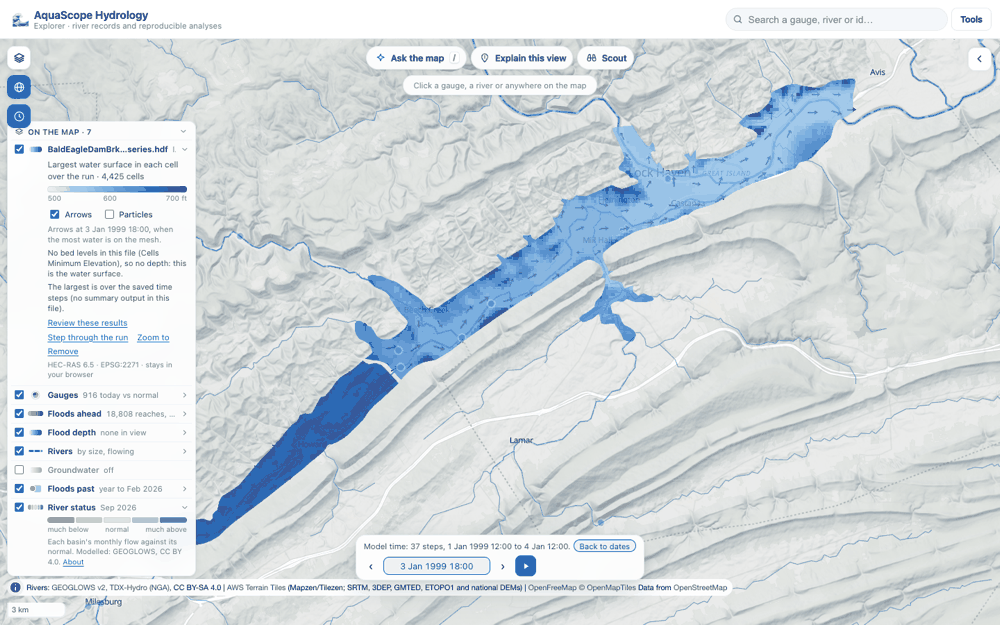
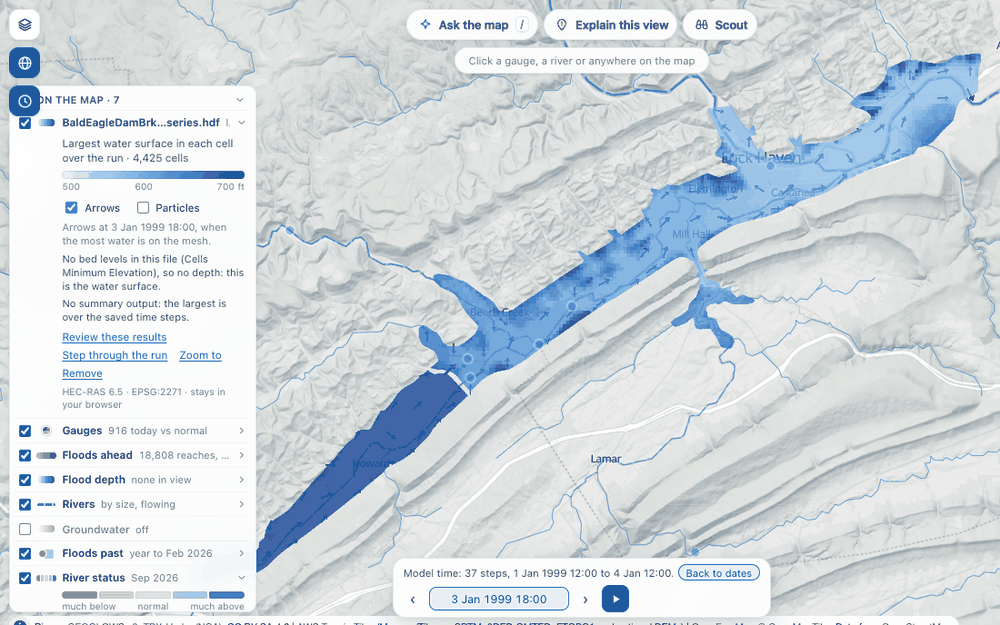
Review: an en or em dash is a sign too; the page names the missing 2D area in words; plan fragments are HEC-RAS files
- placeholder_touches refuses a dash (en, em) set against a placeholder, as it does a hyphen; ranges and
  spaced dashes stay wording
- the Explorer's message for a stripped plan is shorter and names the 2D area, not its HDF5 path
- a plan file with results but no 2D areas says it has no 2D flow areas, not that it has no UGRID mesh
- the no-summary note is shorter, so the legend row grows by less
- screenshots retaken with the new wording

diff --git a/explorer/src/mesh-core.js b/explorer/src/mesh-core.js
@@ -62,15 +62,17 @@ export const NO_GEOMETRY = "holds model results but not the mesh they sit on";
 
 /**
  * The reader's error, as the page says it. A plan file without its mesh is told what to drop next: the full
- * plan file, or the same file with its geometry file. Every other error is the package's own words.
+ * plan file, or the same file with its geometry file. The 2D area whose mesh is missing is named in words,
+ * not as an HDF5 path. Every other error is the package's own words.
  */
 export function friendlyError(message, name = "") {
   const msg = String(message || "");
   if (!msg.includes(NO_GEOMETRY)) return msg;
-  const missing = (/: (.+?) is missing\./.exec(msg) || [])[1];
-  return `${name || "This file"} holds model results but not the mesh they sit on` +
-    `${missing ? ` (${missing} is not in it)` : ""}. Drop the full plan file (.p01.hdf), or drop this file ` +
-    "together with the geometry file the plan was run with (.g01.hdf).";
+  const missing = (/: (.+?) is missing\./.exec(msg) || [])[1] || "";
+  const area = (/^Geometry\/2D Flow Areas\/([^/]+)/.exec(missing) || [])[1];
+  const what = area && area !== "Attributes" ? ` (no mesh for the 2D area ${area})` : "";
+  return `${name || "This file"} has the model results but not the mesh${what}. Drop the full plan file ` +
+    "(.p01.hdf), or this file together with its geometry file (.g01.hdf).";
 }
 
 /** "BaldEagle.p18.hdf" -> "BaldEagle.p18.hdf"; long names keep their ends: "Grevelingen-FM…_map.nc". */

diff --git a/tests/test_map_explain.py b/tests/test_map_explain.py
@@ -328,6 +328,7 @@ def test_the_claim_lock_counts_numbers_in_words_and_other_numerals(facts):
     "-{f1}", "Falls to -{f1} today.", "Falls to \u2212{f1}.", "Up +{f1}.", "\u00b1 {f1}", "Falls to minus {f1}.",
     "Negative {f1} here.", "plus {f1}", "(- {f1})", "- {f1} today", "{f1}0 reaches", "1{f1} reaches", "{f1}.5",
     "{f1},000 m\u00b3/s", "0.{f1}", ".{f1}", "{f1}e3", "{f1}k reports", "{f1}{f2}", "{f1}{f2.when}",
+    "Falls to \u2013{f1}.", "(\u2014{f1})", "\u2013 {f1} today",
 ])
 def test_a_sign_or_a_digit_against_a_placeholder_is_found(words):
     assert me.placeholder_touches(words)
@@ -338,6 +339,7 @@ def test_a_sign_or_a_digit_against_a_placeholder_is_found(words):
 @pytest.mark.parametrize("words", [
     "{f1}-{f2}", "mid-{month}", "Floods ahead - {place}", "At the {f1} today.", "Peaks at {f1}.", "{f1}, then more",
     "in {place}, {month}", "the {f1}-year flow", "{f1} m deep", "since {f1.when}", "{f1} keeps rising", "end.{f1}",
+    "{f1}\u2013{f2}", "Floods ahead \u2014 {place}", "ahead\u2014{place}",
 ])
 def test_wording_around_a_placeholder_is_not_a_sign(words):
     assert me.placeholder_touches(words) == []

diff --git a/aquascope/io/mesh.py b/aquascope/io/mesh.py
@@ -738,7 +738,7 @@ def _read_ras(fh, name: str, size: int, crs: str | int | None, max_cells: int) -
             a["lsq"] = None
 
     if times and not any(f"{RAS_SUMMARY}/2D Flow Areas/{a['name']}/Maximum Water Surface" in fh for a in areas):
-        notes.append("The largest is over the saved time steps (no summary output in this file).")
+        notes.append("No summary output: the largest is over the saved time steps.")
     angle = _east_north_angle(cx, cy, crs_in, lat) if has_v else None
     src = _RasSource(fh, areas, bed, angle)
     src.n_steps = len(times)
@@ -1223,7 +1223,7 @@ def read_mesh(path: str | Path, *, crs: str | int | None = None, max_cells: int 
         h5py = _h5py()
         with h5py.File(path, "r") as fh:
             is_ras = (f"{RAS_GEOM}/Attributes" in fh or "HEC-RAS" in _text(fh.attrs.get("File Type"))
-                      or _ras_2d_results(fh))
+                      or _ras_2d_results(fh) or _ras_has_results(fh))
         if is_ras:
             return read_ras_plan(path, crs=crs, max_cells=max_cells, geometry=geometry)
         return read_ugrid(path, crs=crs, max_cells=max_cells)

diff --git a/tests/test_io/test_mesh.py b/tests/test_io/test_mesh.py
@@ -490,6 +490,18 @@ def test_a_plan_without_its_geometry_says_what_is_missing_and_how_to_fix_it(tmp_
     assert M.mesh_summary(stripped) == {"ok": False, "error": msg}
 
 
+def test_a_plan_with_results_but_no_2d_areas_is_called_a_hec_ras_file(tmp_path):
+    # A plan holding only 1D results or boundary lines (rashdf's LowerKanawha.p01.bclines.hdf): a HEC-RAS file
+    # with no 2D flow areas, not "no UGRID mesh".
+    path = tmp_path / "lines.p01.hdf"
+    with h5py.File(path, "w") as fh:
+        fh.create_group("Geometry/Boundary Condition Lines")
+        fh.create_group("Results/Unsteady/Output")
+    with pytest.raises(M.MeshError, match="has no 2D flow areas") as err:
+        M.read_mesh(path)
+    assert "UGRID" not in str(err.value)
+
+
 @pytest.mark.parametrize("drop, missing", [
     (f"{M.RAS_GEOM}/Grid", f"{M.RAS_GEOM}/Grid is missing"),
     (f"{M.RAS_GEOM}/Grid/FacePoints Coordinate", "Grid/FacePoints Coordinate is missing"),

diff --git a/aquascope/map_explain.py b/aquascope/map_explain.py
@@ -986,8 +986,8 @@ _ANY_SLOT = r"\{\w+(?:\.\w+)?\}"
 # are wording, not a sign.
 _TOUCH = re.compile(
     r"(?:[+\u2212\u00b1]\s?"                    # a plus, a minus sign or a plus-minus, touching or one space off
-    r"|(?<![^\W\d_]|\})-"                        # a hyphen that does not join a word or two placeholders
-    r"|(?:^|(?<=[(\[=]))\s*-\s+"                  # "- {f1}" opening the words or a bracket
+    r"|(?<![^\W\d_]|\})[-\u2013\u2014]"            # a hyphen or a dash (en, em) not joining words or placeholders
+    r"|(?:^|(?<=[(\[=]))\s*[-\u2013\u2014]\s+"      # "- {f1}" opening the words or a bracket
     r"|\b(?:minus|negative|plus)\s+"             # the sign in words
     r"|\d[.,]?|(?<!\w)\.)"                       # a digit or a decimal point before it ("1{f1}", ".{f1}")
     + _ANY_SLOT

diff --git a/CHANGELOG.md b/CHANGELOG.md
@@ -87,8 +87,8 @@ All notable changes to AquaScope are documented here.
 - On a phone the map's attribution starts folded to its (i), so the time bar never sits on it.
 
 ### Fixed
-- **A sign against a placeholder got past the claim lock** (#562, #564): a model's "-{f1}", "minus {f1}" or "{f1}0" changes the number code fills in. `aquascope.map_explain.placeholder_touches` finds it, `claim_lock` lists it, and Explain, Scout (`check_wording`) and the mesh review now share this one check (a hyphen joining a word or two placeholders, "mid-{month}" or "{f1}-{f2}", is still wording).
-- **A stripped HEC-RAS plan file ended in a KeyError** (#555): a `*.p01.timeseries.hdf` holds the results but not the mesh. The reader now says which part is missing and what to do: open the full plan, or give the geometry file the plan was run with, which it then reads with it (`read_mesh(..., geometry=)`, `aquascope mesh FILE --geometry G01_HDF`, `aquascope mesh review ... --geometry`, the MCP tools' `geometry`, and the two files dropped together in the Explorer, which says the same in plain words when the plan comes alone). Checked on HEC's Bald Eagle Creek example (`BaldEagleDamBrk.p18.timeseries.hdf` with `BaldEagleDamBrk.g11.hdf`). A plan without summary output says its largest is over the saved steps only.
+- **A sign against a placeholder got past the claim lock** (#562, #564): a model's "-{f1}", "–{f1}", "minus {f1}" or "{f1}0" changes the number code fills in. `aquascope.map_explain.placeholder_touches` finds it, `claim_lock` lists it, and Explain, Scout (`check_wording`) and the mesh review now share this one check (a hyphen joining a word or two placeholders, "mid-{month}" or "{f1}-{f2}", is still wording).
+- **A stripped HEC-RAS plan file ended in a KeyError** (#555): a `*.p01.timeseries.hdf` holds the results but not the mesh. The reader now says which part is missing and what to do: open the full plan, or give the geometry file the plan was run with, which it then reads with it (`read_mesh(..., geometry=)`, `aquascope mesh FILE --geometry G01_HDF`, `aquascope mesh review ... --geometry`, the MCP tools' `geometry`, and the two files dropped together in the Explorer, which says the same in plain words when the plan comes alone). Checked on HEC's Bald Eagle Creek example (`BaldEagleDamBrk.p18.timeseries.hdf` with `BaldEagleDamBrk.g11.hdf`). A plan without summary output says its largest is over the saved steps only. A plan file with results but no 2D areas (only 1D results or boundary lines) is now called a HEC-RAS file with no 2D flow areas, not a file with no UGRID mesh.
 - **Floods ahead counted only what the browser draws.** When the daily file keeps only the strongest 10,000 reaches, the legend row and its class chips now give the published totals (for example "20,071 reaches, strongest 10,000 drawn") instead of the cut count.
 - The docs build again: pymdown-extensions 12.2 (released 2026-10-10) changed `Highlight.__init__` and broke mkdocstrings 0.29, so every docs build failed. The docs extra now asks for `pymdown-extensions<12.2`.
 - Record the verified v0.26.0 Zenodo DOI (`10.5281/zenodo.23246553`) in release citations, Explorer BibTeX and generated study reports; retain the concept DOI for the project as a whole.
